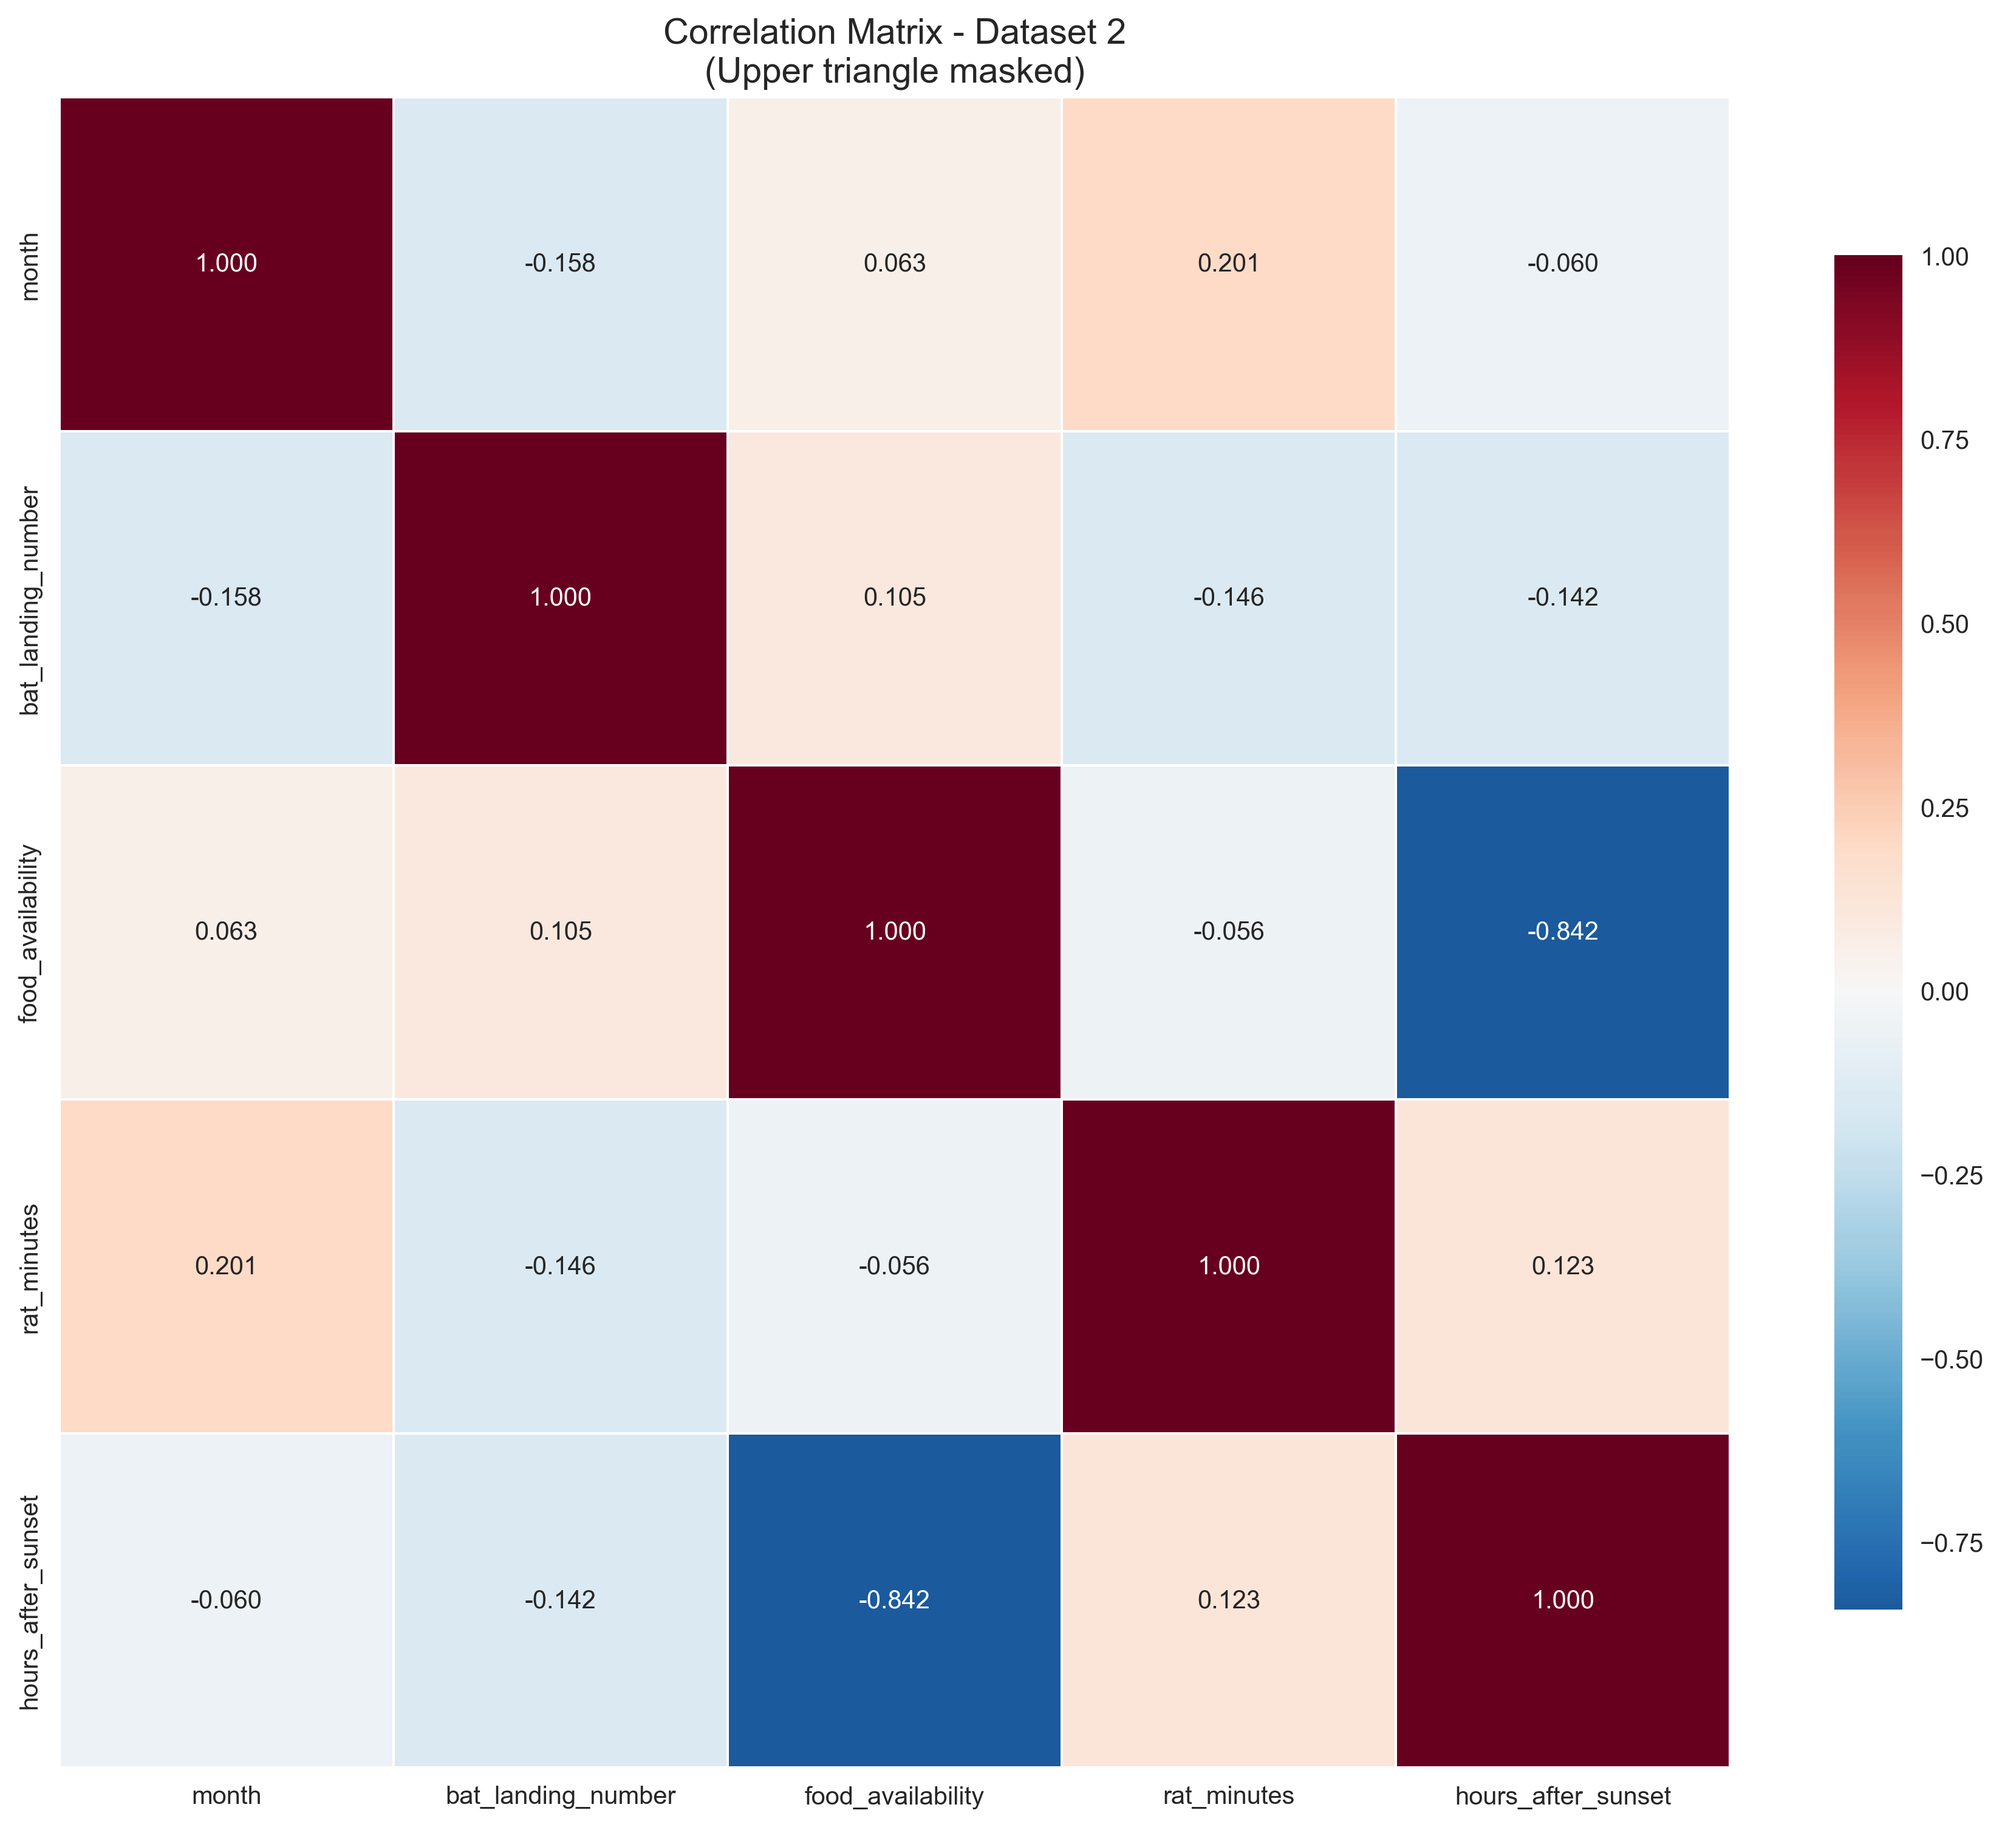
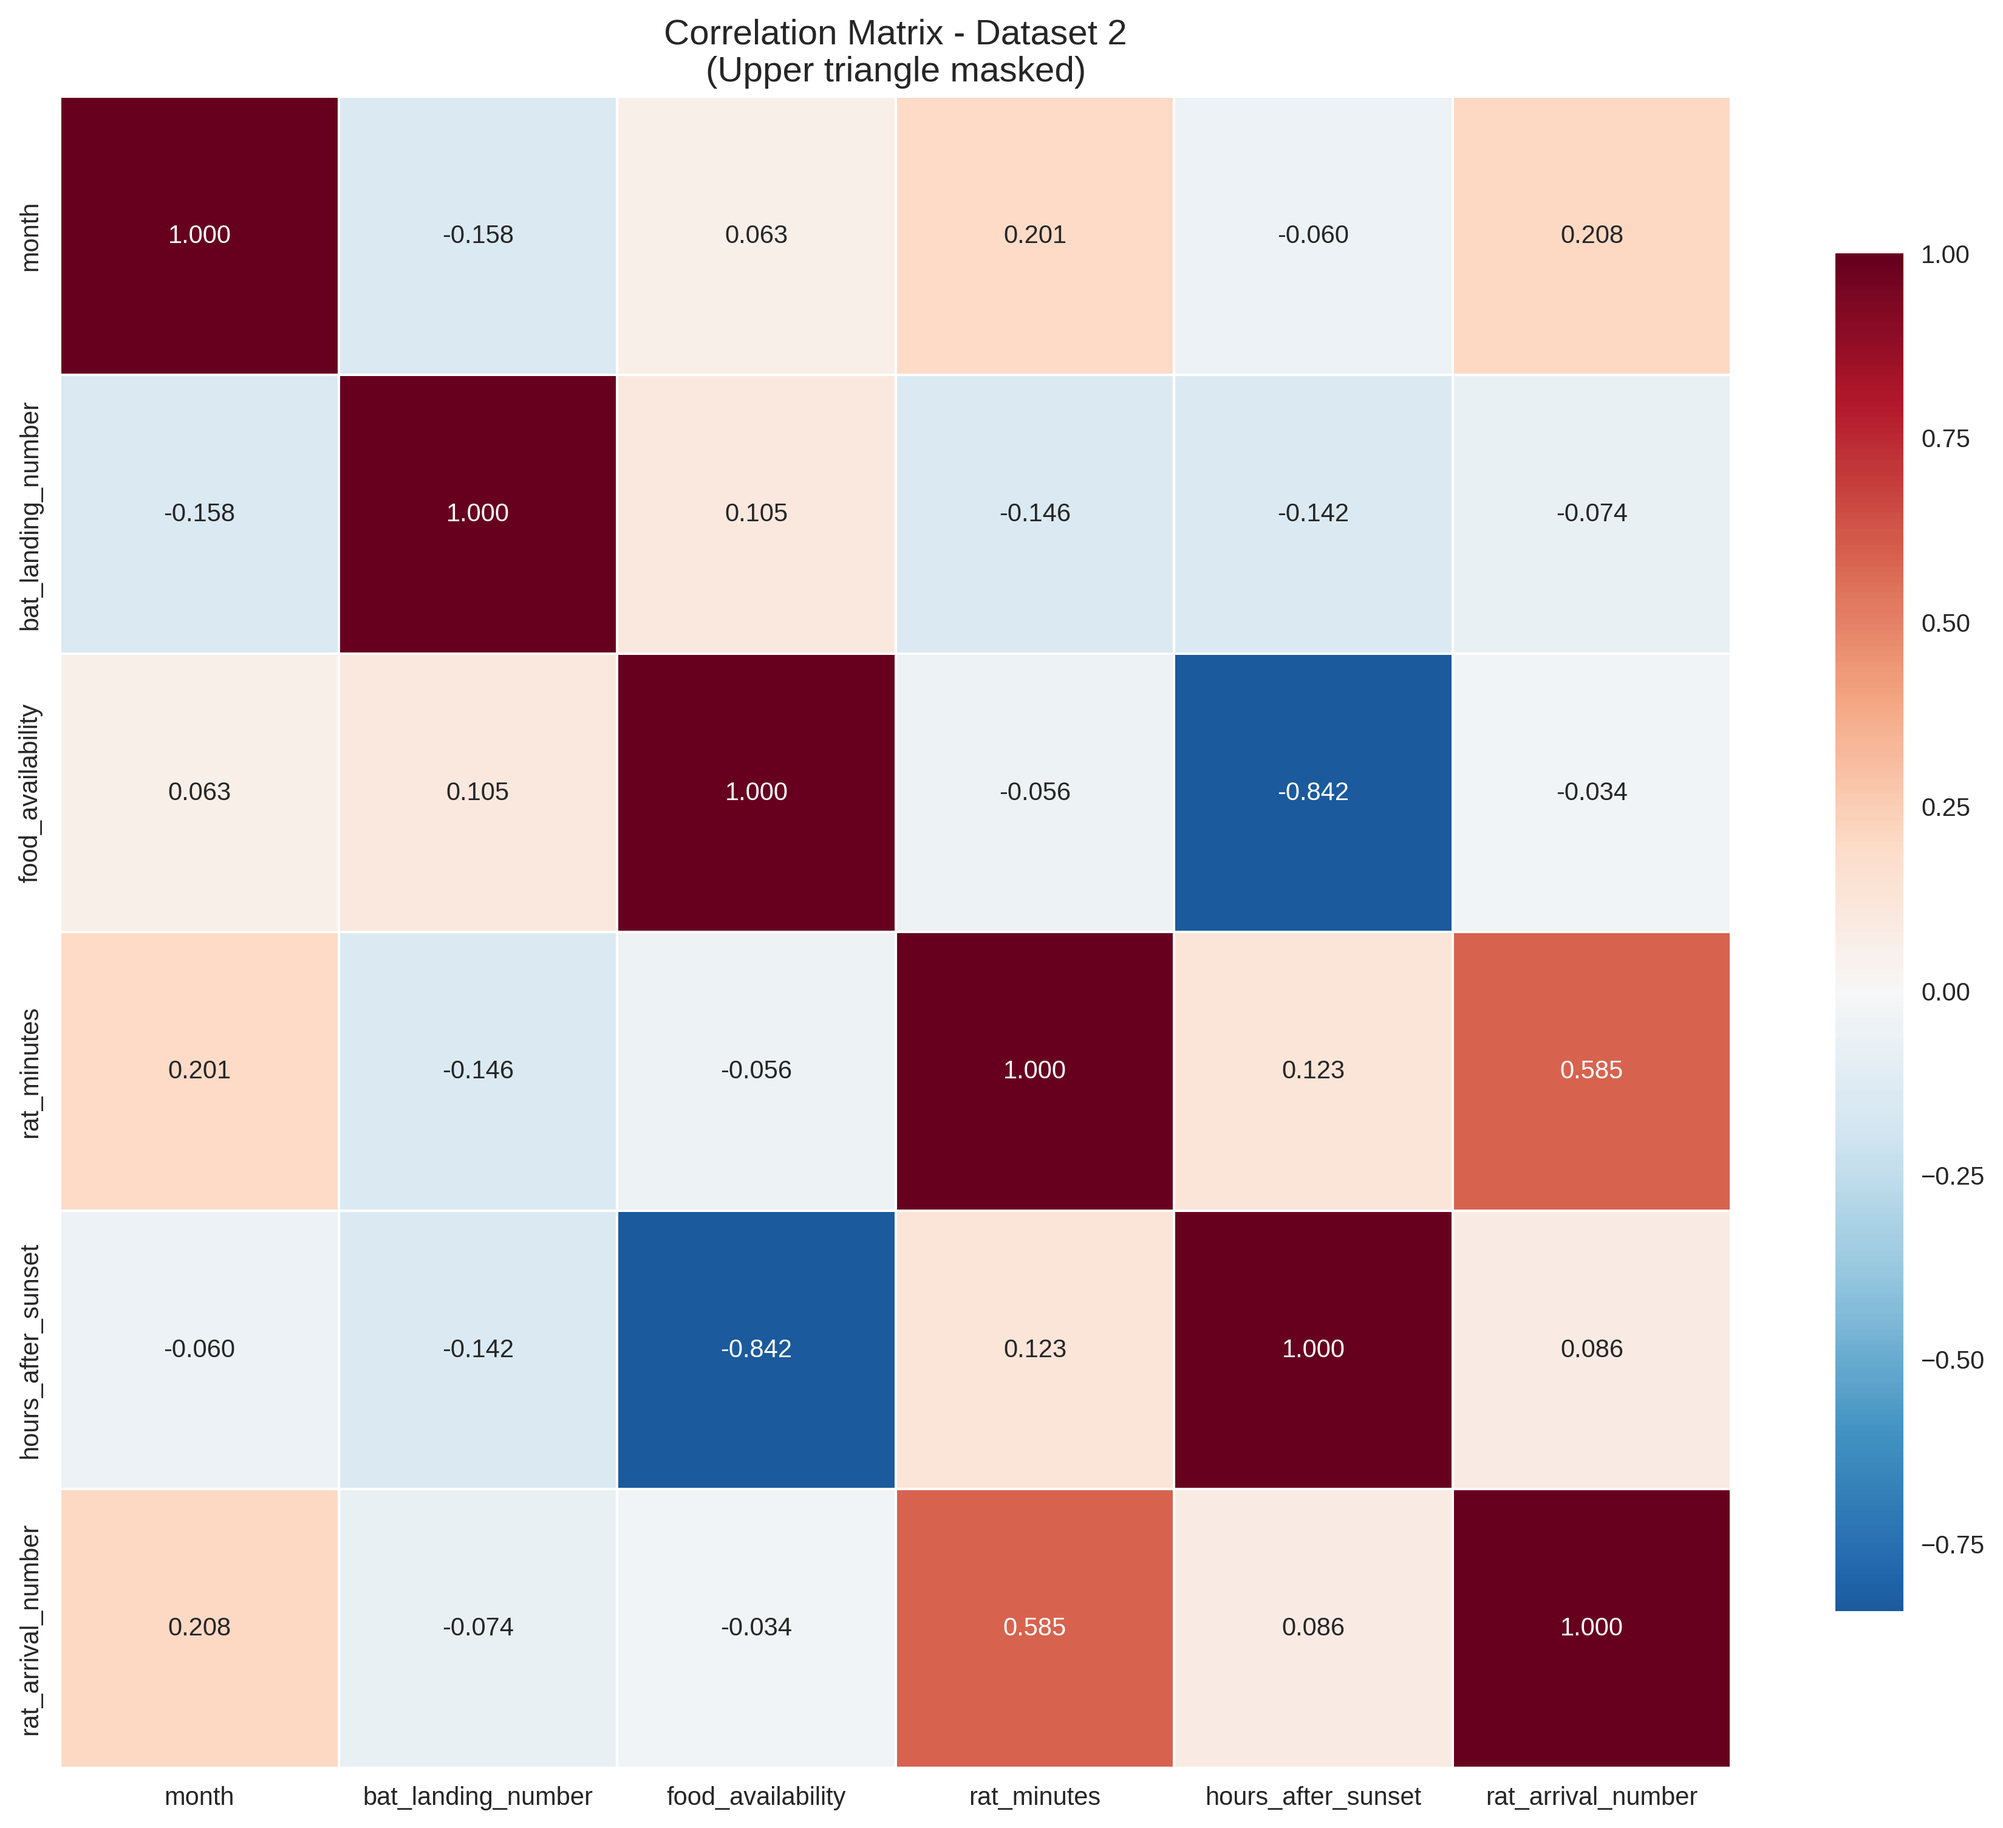
Add 'rat_arrival_number' to correlation analysis and update heatmap

diff --git a/investigation.py b/investigation.py
@@ -404,7 +404,8 @@ d2_numeric_cols = [
     "bat_landing_number",
     "food_availability",
     "rat_minutes",
-    "hours_after_sunset"
+    "hours_after_sunset",
+    "rat_arrival_number"
 ]
 
 # Calculate correlation matrix
